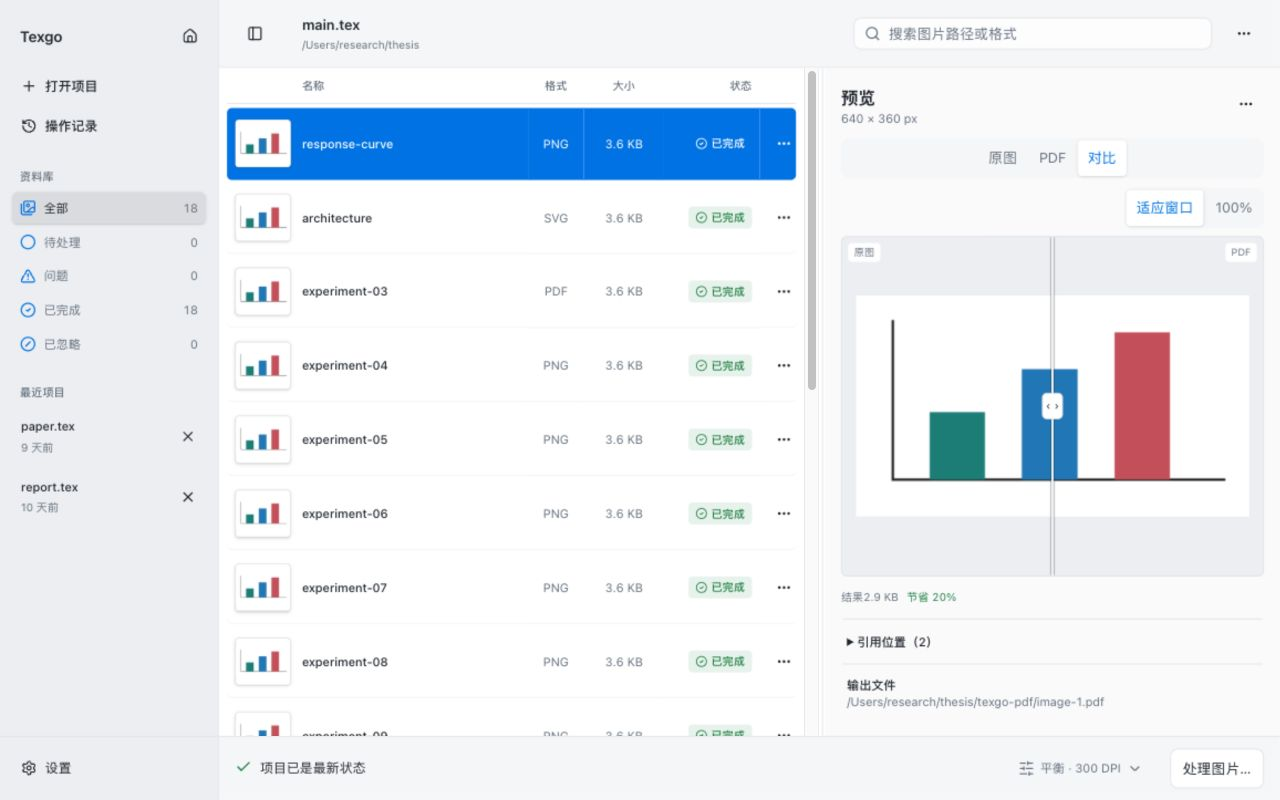
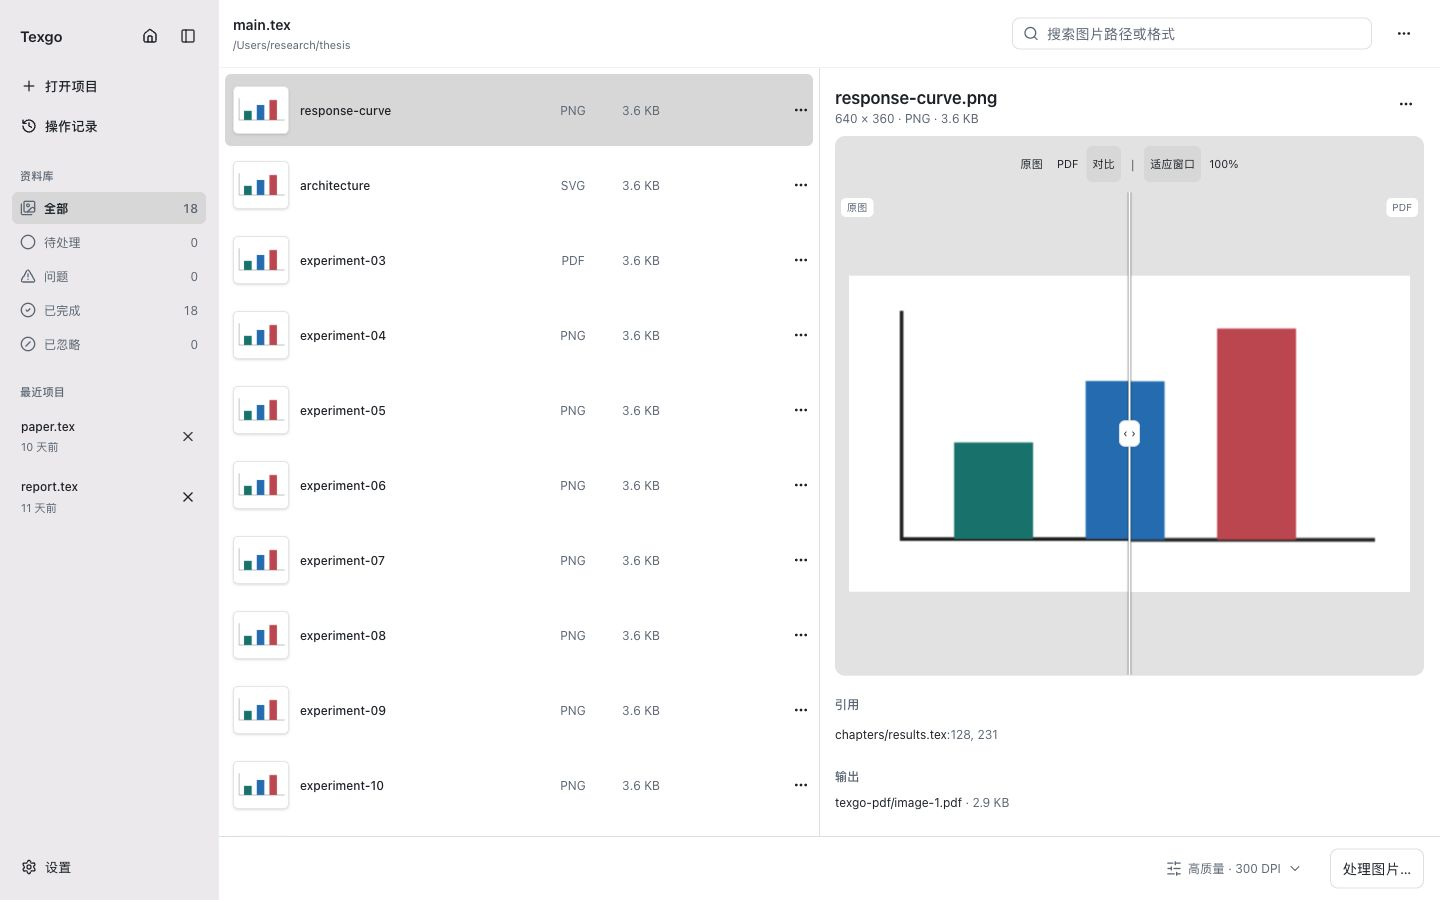
docs: refresh the refined UI screenshots and acceptance notes

diff --git a/docs/ui-refinement.md b/docs/ui-refinement.md
@@ -1,27 +1,43 @@
-# Finder-style refinement — 2026-10-28
+# Finder-style UI refinement — 2026-10-29
 
-The existing layout now uses a solid `#EEECEE` sidebar and white document surfaces.
-The preview has no outer frame, references are always visible as relative `file:lines`,
-and output paths use project-relative text with full paths in tooltips. Empty reference
-sections and healthy image status labels are hidden. History and Settings use spacing
-instead of cards and repeated separators.
+Texgo uses a quiet light-mode document workspace, with a solid `#EEECEE` sidebar
+and white main panes. Radius values are Texgo design tokens, not fixed Apple specifications.
 
-Reveal actions produce no success notice. Copying a path uses a 1.5-second transient
-message. Errors, pending references and safety conflicts retain their existing explicit UI.
-Navigation uses shared 180 ms opacity/6 px motion; hidden retained views are inert.
-Reduced Motion uses brief opacity only. No animation package was added.
+| Before | After | Why |
+| --- | --- | --- |
+| Blue library selection and unrelated navigation grays | `--selection-bg: #DCDCDC` with dark text | One selection language across Library, Sidebar and History |
+| Flush rows and square selection | 6 px horizontal inset, 3 px row gap, 6 px corners | Separate adjacent selected rows while preserving desktop density |
+| Programmatic history highlight only | Mouse/keyboard selection independent of disclosure | Selecting a record does not expand details or invoke Undo |
+| Ad hoc component corners | Selection 6 px, controls 8 px, viewer 10 px, floating surfaces 12 px | Distinct roles with consistent concentric corners |
+| Rounded image/PDF content on a darker viewer | `#E6E6E6` viewer, 10 px outer corners, square content | Separate the viewing surface from the document itself |
 
-Visual inspection used local example data at 1440×900, 1280×800 and 1100×700,
-including Home, Workspace, History, Settings, and explicit rename review/application.
-Measured sidebar/main/list/preview colors match the required palette; the 1100 px
-layout keeps the table inside its list pane. Focused presentation, file-action,
-preview, navigation, workspace-hook and workflow tests were run, together with
-TypeScript, bilingual catalog checks and the production frontend build.
+Small inline controls use the 5 px token; compact buttons and active segments use
+6 px. Segmented containers use 8 px with 2 px padding. Menu containers use 12 px
+with 6 px padding around 6 px entries. Status colors and keyboard focus rings remain
+independent of ordinary selection. The current product officially uses light mode.
 
-The macOS-specific Tauri configuration enables native Overlay decorations; an empty
-28 px top drag region and safe offsets reserve traffic-light space. Windows/Linux retain
-the base native decorations. Installed macOS traffic-light placement and window dragging
-still need native acceptance after packaging; browser screenshots cannot verify system chrome.
+## Verification
 
-This presentation pass does not change conversion, journal, transaction, watcher decisions,
-reference-write guards, rename/ignore semantics or undo behavior.
+Local example-data screenshots were inspected at 1440×900, 1280×800 and 1100×700.
+Checks included adjacent multi-selection, stable selection while hovered, keyboard
+focus, History selection without disclosure, original/PDF/compare previews, Settings,
+menus and an unconfirmed Undo dialog. Measurements confirmed:
+
+- Library, Sidebar and History selection: `rgb(220, 220, 220)`.
+- Library row height 72 px, gap 3 px, horizontal inset 6 px, end corners 6 px.
+- Input/Select 8 px; segmented container 8 px and segment 6 px.
+- Menu/Dialog 12 px; ordinary dialog buttons 8 px.
+- Viewer `rgb(230, 230, 230)` with 10 px corners; image, comparison frame and PDF canvas 0 px.
+- Tab focus retains a separate 2 px blue ring while selection stays gray.
+
+97 focused tests passed across presentation, asset actions, history, controls and
+preview components. TypeScript, 720 bilingual messages, the production frontend build,
+14 release-policy/signature checks and workflow lint also passed. Full native and
+LaTeX compilation test suites were not repeated for this presentation-only round.
+
+The README screenshots use example project data. Browser screenshots do not verify
+native macOS traffic-light placement, window dragging, or installed-app updates.
+Those still require installed-platform acceptance after packaging.
+
+This round does not change scanner, conversion, watcher decisions, reference-write
+fingerprints, transaction/journal, Undo or rename semantics. History selection is local UI state.
